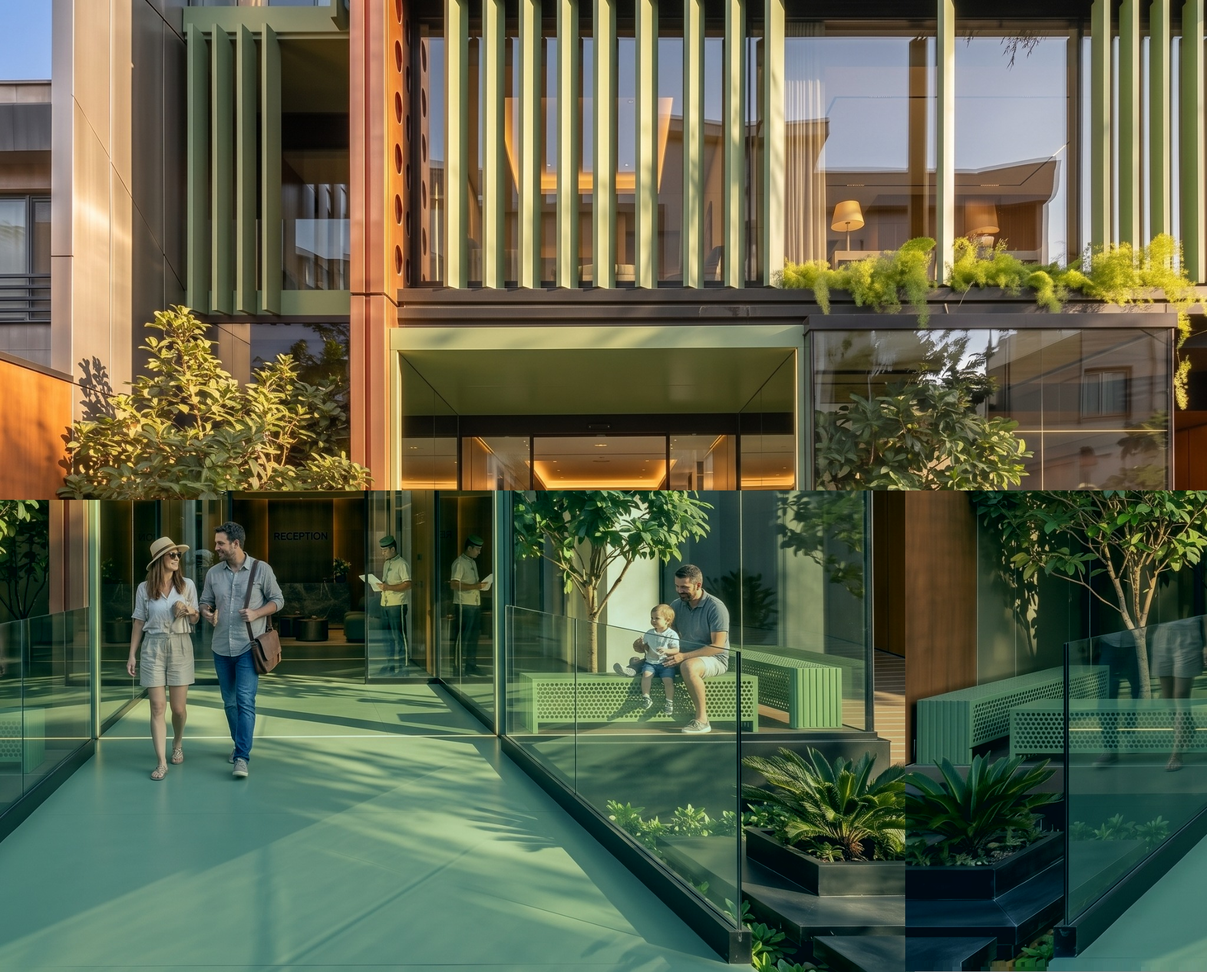
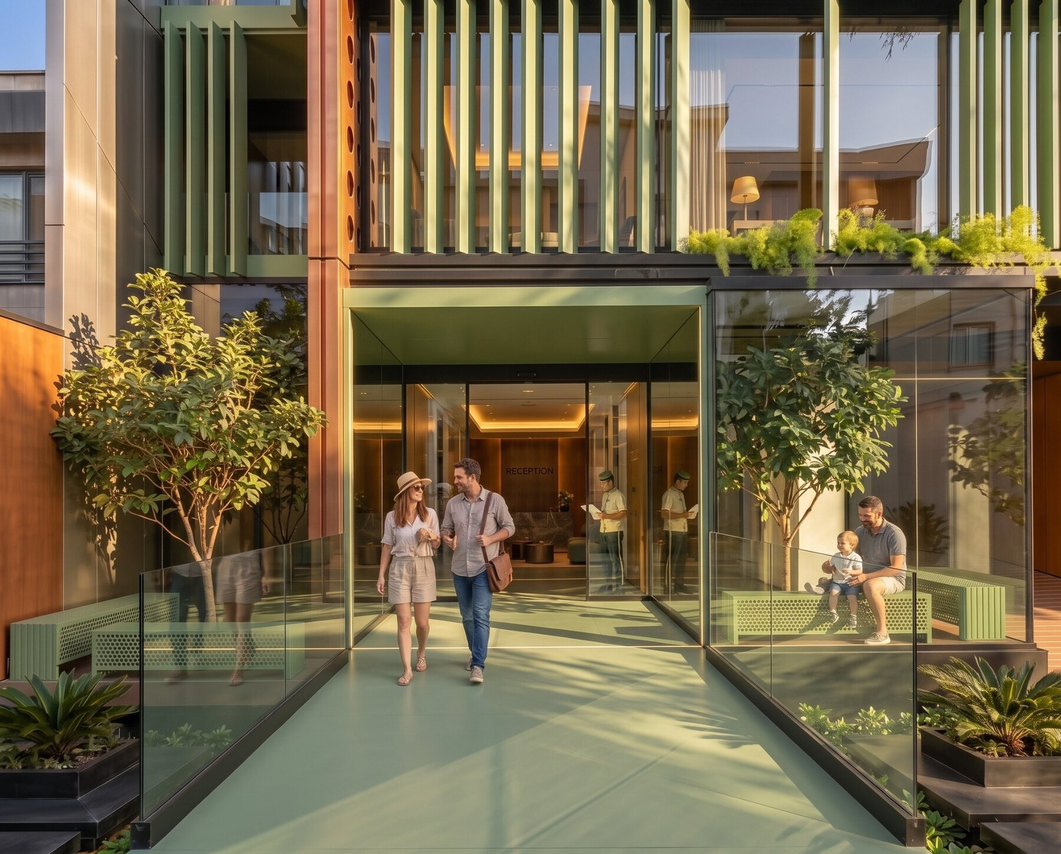
Expand multidisciplinary portfolio and CV
Rebuild About from the supplied CV, publish contact and WhatsApp details, add LOOKOUT/IN recognition, introduce ToBe across Architecture and Creative Direction, publish Embodied Archetypes across Exhibitions, Artworks and Fashion, repair New Generation assets and location, and refine the Lumière cover crop.

diff --git a/src/app/about/about.component.html b/src/app/about/about.component.html
@@ -1,11 +1,68 @@
 <section class="about-page">
-  <p class="eyebrow">Jalal Mashhadi Fard</p>
-  <h1>One mind,<br />many forms.</h1>
-  <div class="about-copy">
-    <p>Jalal Mashhadi Fard is an architect, creative director, fashion designer, and visual artist working across Iran, Oman, and the UAE. His multidisciplinary practice moves between architecture, objects, images, exhibitions, and identity—treating each medium as part of one continuous spatial language.</p>
-    <p>Through light, reflection, material, and narrative, his work explores how space can hold memory, intimacy, encounter, and emotion.</p>
+  <header class="about-hero">
+    <p class="eyebrow">Jalal Mashhadi Fard</p>
+    <h1>One mind,<br />many forms.</h1>
+    <p class="intro">Architect, creative director, fashion designer and visual artist working across Iran, Oman and the UAE.</p>
+  </header>
+
+  <div class="about-grid">
+    <section class="statement">
+      <p>Born in Mashhad in 1993 and educated in architecture and related fields at Tehran University of Art, Jalal Mashhadi Fard builds a multidisciplinary practice across architecture, objects, garments, images and exhibitions.</p>
+      <p>His work draws on lived intercultural experience and on concepts including love, redemption and the search for truth. Through light, reflection, material, symbolism and narrative, he creates poetic connections between Eastern and Western traditions and between matter and meaning.</p>
+    </section>
+
+    <aside class="contact-card">
+      <p class="section-label">Contact</p>
+      <a href="mailto:info@jalalmfard.com">info&#64;jalalmfard.com</a>
+      <a href="tel:+989158200168">+98 915 820 0168</a>
+      <a href="https://wa.me/989158200168" target="_blank" rel="noreferrer">WhatsApp · Iran</a>
+      <a href="tel:+971542158611">+971 54 215 8611</a>
+      <a href="https://wa.me/971542158611" target="_blank" rel="noreferrer">WhatsApp · UAE</a>
+      <a href="https://www.instagram.com/JalalMfard/" target="_blank" rel="noreferrer">Instagram ↗</a>
+    </aside>
   </div>
-  <div class="links">
-    <a href="https://www.instagram.com/JalalMfard/" target="_blank" rel="noreferrer">Instagram</a>
+
+  <div class="cv-sections">
+    <section>
+      <p class="section-label">Selected recognition</p>
+      <ul>
+        <li><span>2025</span> LOOP Design Awards — Winner, FEEL Boutique Plaza</li>
+        <li><span>2025</span> Architizer A+Awards — Special Mention, Jan Plaza</li>
+        <li><span>2025</span> DNA Paris Design Awards — Honorable Mentions, Jan Plaza, LOOKOUT/IN and Lumière Dress</li>
+        <li><span>2025</span> NY Product Design Awards — Silver Winner, LoveLight Dress</li>
+        <li><span>2025</span> Architecture MasterPrize — Honorable Mention, LOOKOUT/IN</li>
+        <li><span>—</span> Architecture of the Year Award — Finalist, LOOKOUT/IN</li>
+      </ul>
+    </section>
+
+    <section>
+      <p class="section-label">Selected exhibitions</p>
+      <ul>
+        <li><span>2025</span> Embodied Archetypes — Intent Gallery, Downtown Dubai</li>
+        <li><span>2024</span> The Abstract Labor of Art — Soo Contemporary, Tehran</li>
+        <li><span>2024</span> Hiddenway — Foundry Downtown, Dubai</li>
+        <li><span>2024</span> Nature — Jana Art Space, Mashhad</li>
+        <li><span>2022</span> Al-Tiba9 Contemporary Art — Armenia Art Fair</li>
+        <li><span>2022</span> Video Art / Harlow — E1 Art Gallery, Tehran</li>
+        <li><span>2020</span> To Heal the World — International online exhibition</li>
+      </ul>
+    </section>
+
+    <section>
+      <p class="section-label">Selected architecture</p>
+      <ul>
+        <li><span>2026</span> New Generation Apartment — Mashhad</li>
+        <li><span>2025</span> LOOKOUT/IN Café — Mashhad</li>
+        <li><span>2024</span> Jan Plaza — Mashhad</li>
+        <li><span>2024</span> FEEL Boutique Plaza — Muscat</li>
+        <li><span>2019</span> Golestan Fruit &amp; Vegetable Wholesale — Kordkuy</li>
+        <li><span>2017</span> Jim Shin Café Renovation — Mashhad</li>
+      </ul>
+    </section>
+
+    <section>
+      <p class="section-label">Fashion &amp; jewelry</p>
+      <p>Creative direction and design for NOUSHELLA, including the brand’s garments and seven jewelry families presented as paired ring and earring collections.</p>
+    </section>
   </div>
 </section>

diff --git a/src/app/about/about.component.css b/src/app/about/about.component.css
@@ -1,33 +1,25 @@
-.about-page {
-  width: min(1120px, calc(100% - 48px));
-  margin: 0 auto;
-  padding: 7vh 0 10vh;
-}
-.eyebrow { color: #777; font-size: 12px; letter-spacing: .16em; text-transform: uppercase; }
-h1 {
-  margin: 28px 0 64px;
-  font-size: clamp(54px, 10vw, 148px);
-  line-height: .88;
-  letter-spacing: -.065em;
-  font-weight: 300;
-}
-.about-copy {
-  width: min(720px, 100%);
-  margin-left: auto;
-  display: grid;
-  gap: 24px;
-  font-size: clamp(18px, 2vw, 28px);
-  line-height: 1.45;
-}
-.links {
-  margin-top: 64px;
-  display: flex;
-  justify-content: flex-end;
-  gap: 28px;
-}
-.links a { color: #111; border-bottom: 1px solid #111; text-decoration: none; }
-@media (max-width: 700px) {
-  .about-page { width: calc(100% - 32px); padding-top: 3vh; }
-  h1 { margin-bottom: 42px; }
-  .links { justify-content: flex-start; }
+.about-page { width: min(1180px, calc(100% - 48px)); margin: 0 auto; padding: 7vh 0 12vh; }
+.eyebrow, .section-label { color: #767676; font-size: 11px; letter-spacing: .16em; text-transform: uppercase; }
+.about-hero { min-height: 58vh; display: flex; flex-direction: column; }
+h1 { margin: 28px 0 48px; font-size: clamp(58px, 10vw, 148px); line-height: .86; letter-spacing: -.065em; font-weight: 300; }
+.intro { width: min(660px, 100%); margin: auto 0 0 auto; font-size: clamp(20px, 2.2vw, 31px); line-height: 1.4; }
+.about-grid { display: grid; grid-template-columns: minmax(0, 1.7fr) minmax(250px, .7fr); gap: clamp(40px, 8vw, 120px); margin: 12vh 0; }
+.statement { font-size: clamp(18px, 1.65vw, 25px); line-height: 1.55; }
+.statement p + p { margin-top: 24px; }
+.contact-card { align-self: start; padding: 28px; background: #f4f3ef; box-shadow: 0 18px 55px rgba(0,0,0,.08); display: grid; gap: 14px; }
+.contact-card .section-label { margin-bottom: 10px; }
+.contact-card a { color: #111; text-decoration: none; width: fit-content; border-bottom: 1px solid rgba(0,0,0,.25); }
+.cv-sections { border-top: 1px solid #d8d8d4; }
+.cv-sections > section { display: grid; grid-template-columns: minmax(180px, .45fr) 1fr; gap: 32px; padding: 38px 0; border-bottom: 1px solid #d8d8d4; }
+.cv-sections ul { list-style: none; padding: 0; margin: 0; display: grid; gap: 14px; line-height: 1.45; }
+.cv-sections li span { display: inline-block; width: 58px; color: #888; font-size: 12px; }
+.cv-sections p:not(.section-label) { margin: 0; line-height: 1.6; max-width: 760px; }
+@media (max-width: 760px) {
+  .about-page { width: calc(100% - 32px); padding-top: 4vh; }
+  .about-hero { min-height: 52vh; }
+  h1 { margin-bottom: 32px; }
+  .intro { margin-left: 0; }
+  .about-grid { grid-template-columns: 1fr; margin: 72px 0; gap: 40px; }
+  .contact-card { padding: 22px; }
+  .cv-sections > section { grid-template-columns: 1fr; gap: 18px; padding: 30px 0; }
 }

diff --git a/src/app/awards/awards.component.ts b/src/app/awards/awards.component.ts
@@ -14,6 +14,8 @@ export class AwardsComponent {
     { year: '2025', award: 'NY Product Design Awards', recognition: 'Silver Winner', project: 'NOUSHELLA — LoveLight Dress', url: 'https://nydesignawards.com/winner-info.php?id=3329' },
     { year: '2025', award: 'DNA Paris Design Awards', recognition: 'Honorable Mention', project: 'NOUSHELLA — LoveLight Dress', url: 'https://dna.paris/winner/zoom.php?eid=71-94212-25' },
     { year: '2025', award: 'DNA Paris Design Awards', recognition: 'Honorable Mention', project: 'NOUSHELLA — Lumière Dress', url: 'https://dna.paris/winner/zoom.php?eid=71-93916-25' },
+    { year: '2025', award: 'Architecture MasterPrize', recognition: 'Honorable Mention — Architectural Design of the Year', project: 'LOOKOUT/IN Café', url: 'https://architectureprize.com/winners/2025_hm.php?level=pro' },
+    { year: '', award: 'Architecture of the Year Award', recognition: 'Finalist', project: 'LOOKOUT/IN Café' },
     { year: '', award: 'Shiraz Interior Architecture Award', recognition: 'Finalist', project: 'LOOKOUT/IN Café' }
   ];
 }

diff --git a/src/app/fashion/fashion.component.html b/src/app/fashion/fashion.component.html
@@ -23,7 +23,7 @@
                             <img *ngFor="let cover of slide.coverImages" [src]="cover" [alt]="slide.title">
                         </div>
                         <ng-template #singleCover>
-                            <img *ngIf="slide.src" class="image" [src]="slide.src" [alt]="slide.title">
+                            <img *ngIf="slide.src" class="image" [src]="slide.src" [alt]="slide.title" [style.object-position]="slide.coverPosition || null">
                             <div *ngIf="!slide.src" class="placeholder-mark" aria-hidden="true">J</div>
                         </ng-template>
                     </div>
